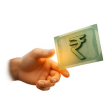
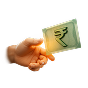
enhance design

diff --git a/lib/features/home/presentation/pages/home_screen.dart b/lib/features/home/presentation/pages/home_screen.dart
@@ -124,6 +124,8 @@ class _HomeHeader extends StatelessWidget {
               height: 10,
               width: double.infinity,
               fit: BoxFit.fill,
+              color: AppColors.scaffoldBackground(context),
+              colorBlendMode: BlendMode.srcIn,
             ),
           ),
         ],
@@ -292,12 +294,12 @@ class _CategoryTile extends StatelessWidget {
               alignment: Alignment.center,
               children: [
                 const PositionedDirectional(
-                  top: 1,
+                  top: 0,
                   start: 0,
                   end: 0,
                   child: AppRasterImage.asset(
                     AppAssets.homeCategoryStrokeTop,
-                    height: 3,
+                    height: 2,
                     fit: BoxFit.fill,
                   ),
                 ),
@@ -698,6 +700,8 @@ class _RestaurantImage extends StatelessWidget {
 
   @override
   Widget build(BuildContext context) {
+    final isArabic = Localizations.localeOf(context).languageCode == 'ar';
+
     return SizedBox(
       height: 124,
       child: Stack(
@@ -714,8 +718,9 @@ class _RestaurantImage extends StatelessWidget {
               ),
             ),
           ),
-          PositionedDirectional(
-            start: 10,
+          Positioned(
+            left: isArabic ? 10 : null,
+            right: isArabic ? null : 10,
             top: 10,
             child: Container(
               width: 22,
@@ -904,16 +909,33 @@ class _HomeCopy {
           ),
       ],
       restaurants: [
-        for (final open in [false, true, false])
-          _HomeRestaurant(
-            name: l10n.orderRestaurantAzAlSham,
-            description: l10n.serviceRestaurantDescription,
-            deliveryTime: l10n.serviceDeliveryTimeRange,
-            rating: l10n.orderCourierRating,
-            isOpen: open,
-            id: 'az-al-sham',
-            imageAsset: AppAssets.homeRestaurantCover,
-          ),
+        _HomeRestaurant(
+          name: l10n.orderRestaurantAzAlSham,
+          description: l10n.serviceRestaurantDescription,
+          deliveryTime: l10n.serviceDeliveryTimeRange,
+          rating: l10n.orderCourierRating,
+          isOpen: false,
+          id: 'az-al-sham',
+          imageAsset: AppAssets.homeMostOrderedRestaurant1,
+        ),
+        _HomeRestaurant(
+          name: l10n.orderRestaurantAzAlSham,
+          description: l10n.serviceRestaurantDescription,
+          deliveryTime: l10n.serviceDeliveryTimeRange,
+          rating: l10n.orderCourierRating,
+          isOpen: true,
+          id: 'az-al-sham',
+          imageAsset: AppAssets.homeMostOrderedRestaurant2,
+        ),
+        _HomeRestaurant(
+          name: l10n.orderRestaurantAzAlSham,
+          description: l10n.serviceRestaurantDescription,
+          deliveryTime: l10n.serviceDeliveryTimeRange,
+          rating: l10n.orderCourierRating,
+          isOpen: false,
+          id: 'az-al-sham',
+          imageAsset: AppAssets.homeMostOrderedRestaurant1,
+        ),
       ],
     );
   }

diff --git a/lib/core/widgets/app_media.dart b/lib/core/widgets/app_media.dart
@@ -57,12 +57,16 @@ class AppRasterImage extends StatelessWidget {
     this.width,
     this.height,
     this.fit = BoxFit.contain,
+    this.color,
+    this.colorBlendMode,
   });
 
   final String assetName;
   final double? width;
   final double? height;
   final BoxFit fit;
+  final Color? color;
+  final BlendMode? colorBlendMode;
 
   @override
   Widget build(BuildContext context) {
@@ -71,6 +75,8 @@ class AppRasterImage extends StatelessWidget {
       width: width,
       height: height,
       fit: fit,
+      color: color,
+      colorBlendMode: colorBlendMode,
       errorBuilder: (context, error, stackTrace) {
         developer.log(
           'AppRasterImage failed to load asset path=$assetName error=$error',

diff --git a/lib/core/constants/app_assets.dart b/lib/core/constants/app_assets.dart
@@ -216,6 +216,10 @@ class AppAssets {
   static const homeOfferProduct = 'assets/images/home/home_offer_product.png';
   static const homeRestaurantCover =
       'assets/images/home/home_restaurant_cover.png';
+  static const homeMostOrderedRestaurant1 =
+      'assets/images/home/home_most_ordered_restaurant_1.jpg';
+  static const homeMostOrderedRestaurant2 =
+      'assets/images/home/home_most_ordered_restaurant_2.jpg';
   static const homeRestaurantLogo =
       'assets/images/home/home_restaurant_logo.png';
 
